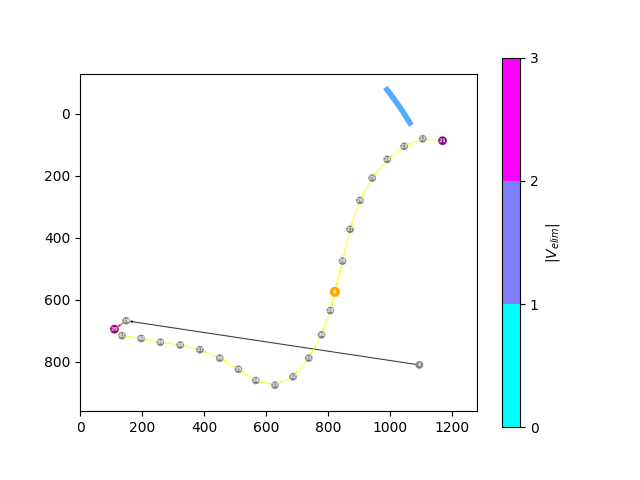
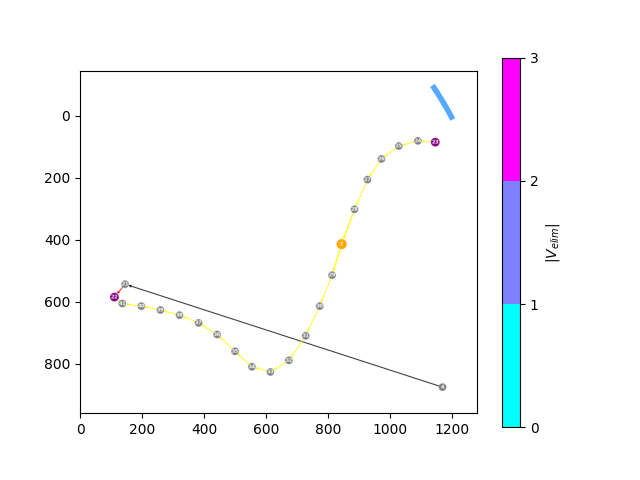
.

diff --git a/scripts/cable_simple_policy.py b/scripts/cable_simple_policy.py
@@ -51,6 +51,9 @@ class CableSimplePolicy:
         """
         print("Attempting to eliminate a cx on # ", cableID)
         graph: Graph = self.cg.graphs[cableID]
+        self.cg.compound_graph.visualize(
+            save_path="cableGraphs/composite_original.png"
+        )
         # graph.visualize(save_path=f"cableGraphs/{cableID}.png")
         # print(graph.get_free_endpoint())
         next_id, cx_pos, nodes = graph.get_next_keypoint(
@@ -68,10 +71,7 @@ class CableSimplePolicy:
         next_id, nodes = graph.get_next_fixed_keypoint(
             graph.get_free_endpoint()
         )
-        self.cg.compound_graph.visualize(
-            save_path="cableGraphs/composite_original.png"
-        )
-        for node in nodes[3:]:
+        for node in nodes:
             # attemp to move this node to free space
             goal_coord, goal_vec = self.search_goal_coord(
                 node, next_id, cableID
@@ -478,7 +478,7 @@ class CableSimplePolicy:
         if self.use_rs is False:
             print("Realsense not in use, returning")
             return
-        # self.fa.reset_joint_and_gripper()
+        self.fa.reset_joint_and_gripper()
         self.fa.open_gripper()
         while True:
             self.fa.goto_capture_pose()

diff --git a/scripts/my_franka.py b/scripts/my_franka.py
@@ -20,7 +20,7 @@ ANGLE_CLIP = 1
 class MyFranka:
     def __init__(self):
         self.time_per_move = 3
-        self.small_z_offset = -0.025
+        self.small_z_offset = -0.02
         self.fa = FrankaArm()
         # transformation from fingertip of ee to center of ee
         self.T_ee_et = np.eye(4)
